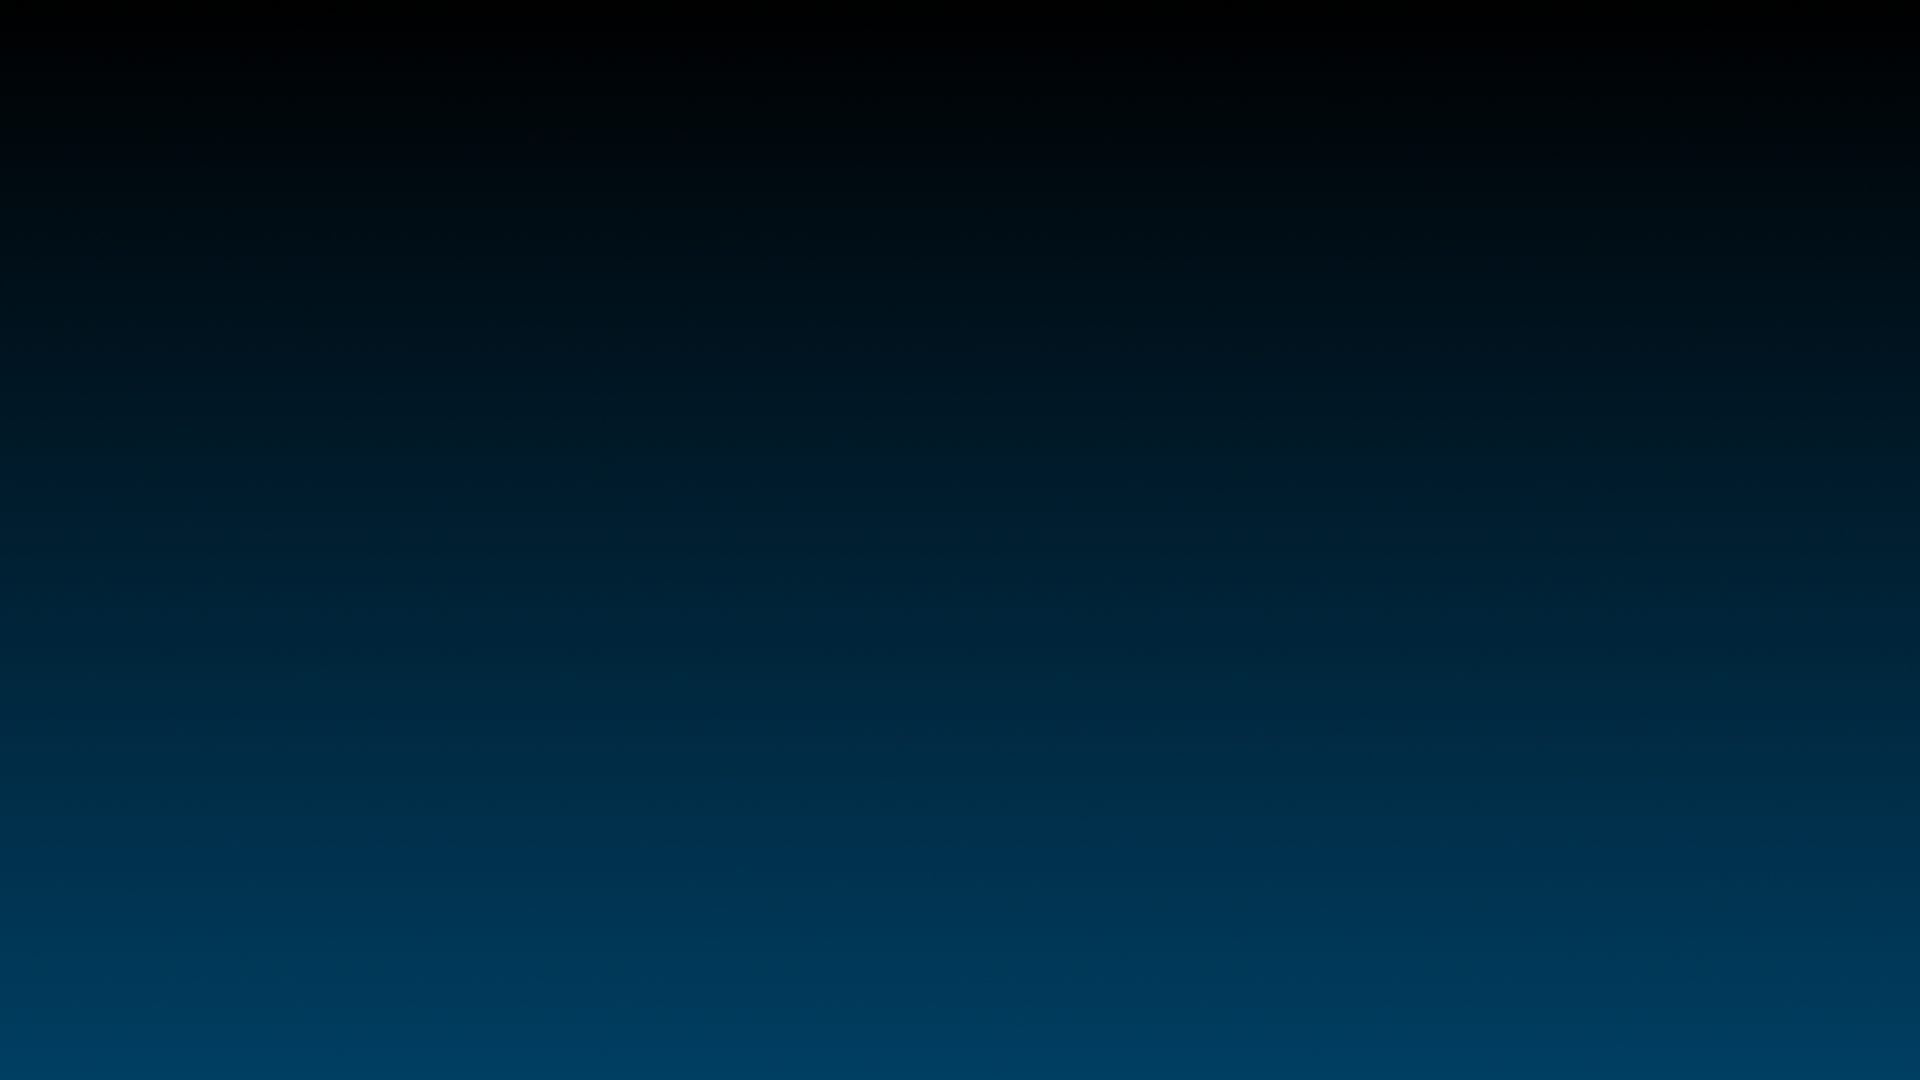
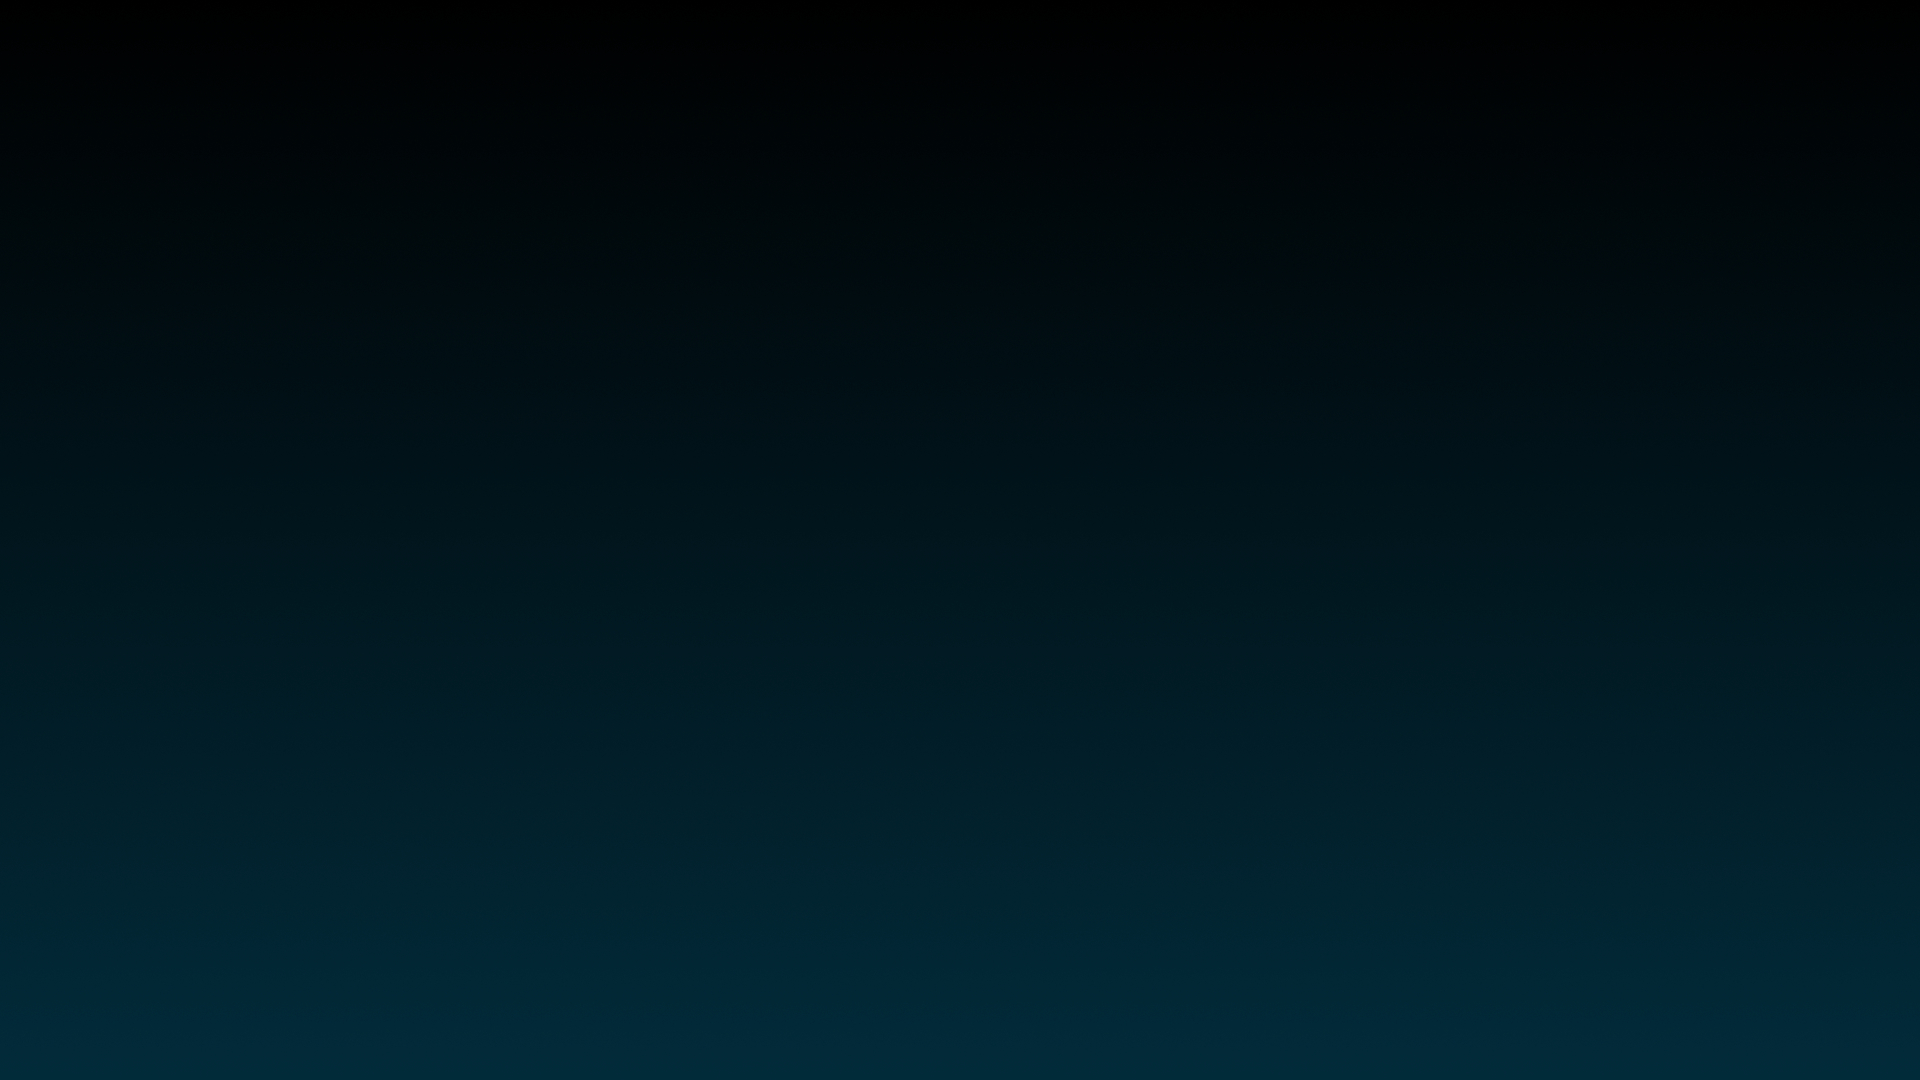
fixed animation for menu toggler

diff --git a/main.css b/main.css
@@ -77,16 +77,16 @@ img{
 .section-heading{
     text-align: center;
     text-transform: uppercase;
-    margin-bottom: 10rem;
+    margin-bottom: 4rem;
 }
 
 .section-heading h1{
-    font-size: 6rem;
+    font-size: 8rem;
     font-family: 'Roboto Bold';
     color: rgba(255,255,255, 0.3);
     text-transform: uppercase;
     position: relative;
-    margin-bottom: 1rem;
+    margin-bottom: 2rem;
 }
 
 .section-heading h1::before,
@@ -100,8 +100,8 @@ img{
 }
 
 .section-heading h1::before{
-    width: 12rem;
-    height: 3px;
+    width: 15rem;
+    height: 2px;
     border-radius: 1rem;
 }
 
@@ -133,7 +133,7 @@ header{
     position: fixed;
     top: -150vh;
     z-index: 50;
-    background: linear-gradient(to top, #000000, #003f62);
+    background: linear-gradient(to top, #000000, #022B3A);
     border-bottom-right-radius: 100%;
     border-bottom-left-radius: 100%;
     transition: all 650ms cubic-bezier(1,0,0,1);
@@ -174,7 +174,7 @@ li{
     position: absolute;
     top: 4rem;
     right: 4rem;
-    width: 4rem;
+    width: 5rem;
     height: 4rem;
     display: flex;
     flex-direction: column;
@@ -192,7 +192,7 @@ li{
     background: linear-gradient(to right, #ffffff, #00ffff);
     width: 100%;
     height: 4px;
-    border-radius: 0.8rem;
+    border-radius: 1rem;
 }
 
 .bar.half{
@@ -201,21 +201,21 @@ li{
 
 .bar.start{
     transform-origin: right;
-    transition: transform 650ms cubic-bezier(0.5, -0.81, 0.57, 0.57);
+    transition: transform 650ms cubic-bezier(0.1, -0.9, 0.3, -0.2);
 }
 
 .open .bar.start{
-    transform: rotate(-270deg) translateX(0.8rem);
+    transform: rotate(-270deg) translateX(1.7rem);
 }
 
 .bar.end{
     align-self: flex-end;
     transform-origin: left;
-    transition: transform 650ms cubic-bezier(0.5, -0.81, 0.57, 0.57);
+    transition: transform 650ms cubic-bezier(0.1, -0.9, 0.3, -0.2);
 }
 
 .open .bar.end{
-    transform: rotate(-270deg) translateX(-.8rem);
+    transform: rotate(-270deg) translateX(-1.7rem);
 }
 
 
@@ -605,6 +605,7 @@ button:hover{
 
     .section-heading h1{
         font-size: 5rem;
+        margin-bottom: 1rem;
     }
 
     .about-details .nav-list{

diff --git a/index.html b/index.html
@@ -16,11 +16,13 @@
     </head>
 <body>
     <header>
+        <!--Definition of menu item toggler-->
         <div class = "menu-toggler">
             <div class="bar half start"></div>
             <div class="bar"></div>
             <div class="bar half end"></div>
         </div>
+        <!--Begin definition of navigation menu items-->
         <nav class="top-nav">
             <ul class="nav-list">
                 <li>
@@ -103,7 +105,7 @@
         <div class="container">
             <div class="section-heading">
                 <h1>Skills</h1>
-                <h6>Things I Do </h6>
+                <h6>What I Do </h6>
             </div>
             <div class="my-skills">
                 <div class="skill" data-aos = "fade-in" data-aos-delay="300">
